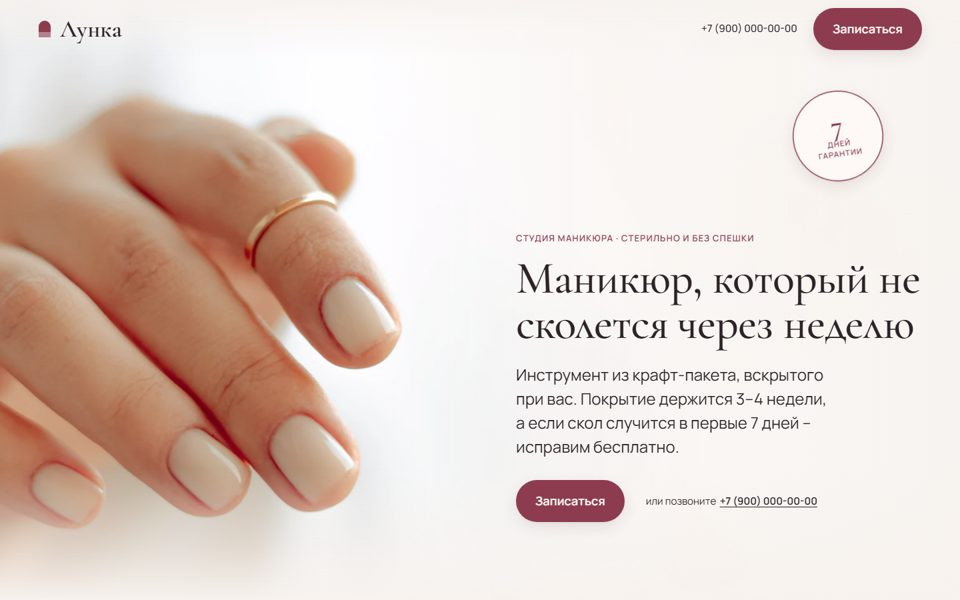
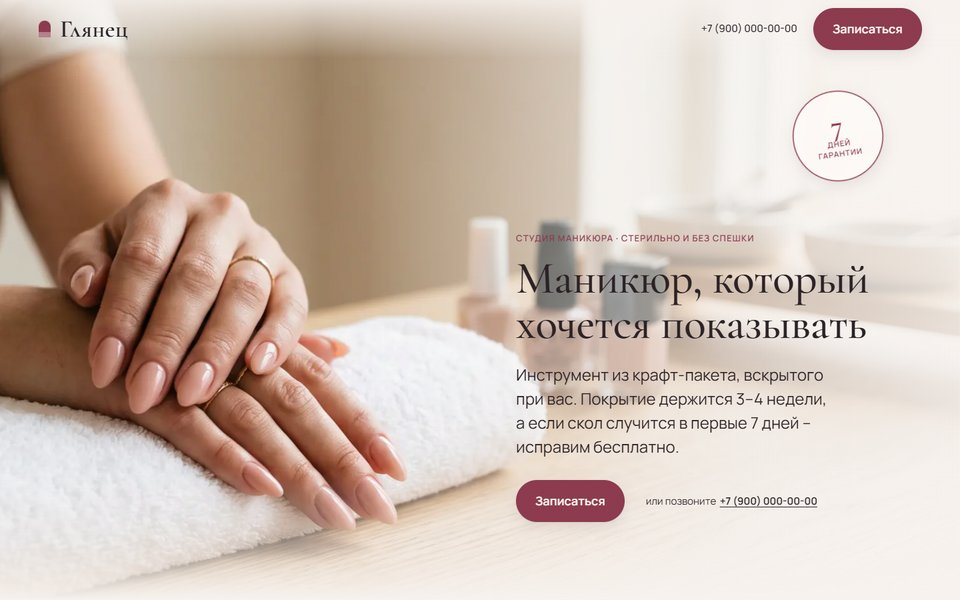
Карточка маникюра: «Глянец», новая картинка

diff --git a/index.html b/index.html
@@ -164,7 +164,7 @@ const W=[
  ['avto-iz-azii','Авто из Азии «Паром»','Подбор и доставка авто'],
  ['barmenskaya-shkola','Школа «Джиггер»','Барменская школа'],
  ['cvety','Цветы с доставкой','Каталог букетов и заказ'],
- ['manikyur','Студия «Лунка»','Маникюр, прайс и запись']
+ ['manikyur','Студия «Глянец»','Маникюр, прайс и запись']
 ];
 document.getElementById('g').innerHTML=W.map(([r,n,d])=>`<a class="card rv" href="/${r}/" target="_blank" rel="noopener"><div class="shot"><img src="img/${r}.jpg" alt="${n}" loading="lazy"></div><div class="t"><h3>${n}</h3><p>${d}</p><span class="go">Открыть сайт →</span></div></a>`).join('');
 const io=new IntersectionObserver(e=>e.forEach(x=>{if(x.isIntersecting){x.target.classList.add('on');io.unobserve(x.target)}}),{threshold:.12});

diff --git a/index.template.html b/index.template.html
@@ -164,7 +164,7 @@ const W=[
  ['avto-iz-azii','Авто из Азии «Паром»','Подбор и доставка авто'],
  ['barmenskaya-shkola','Школа «Джиггер»','Барменская школа'],
  ['cvety','Цветы с доставкой','Каталог букетов и заказ'],
- ['manikyur','Студия «Лунка»','Маникюр, прайс и запись']
+ ['manikyur','Студия «Глянец»','Маникюр, прайс и запись']
 ];
 document.getElementById('g').innerHTML=W.map(([r,n,d])=>`<a class="card rv" href="/${r}/" target="_blank" rel="noopener"><div class="shot"><img src="img/${r}.jpg" alt="${n}" loading="lazy"></div><div class="t"><h3>${n}</h3><p>${d}</p><span class="go">Открыть сайт →</span></div></a>`).join('');
 const io=new IntersectionObserver(e=>e.forEach(x=>{if(x.isIntersecting){x.target.classList.add('on');io.unobserve(x.target)}}),{threshold:.12});
